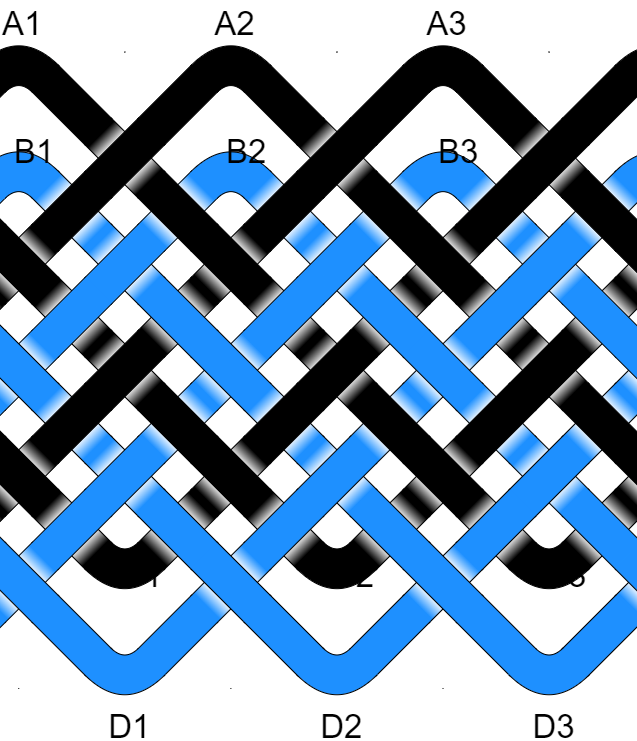
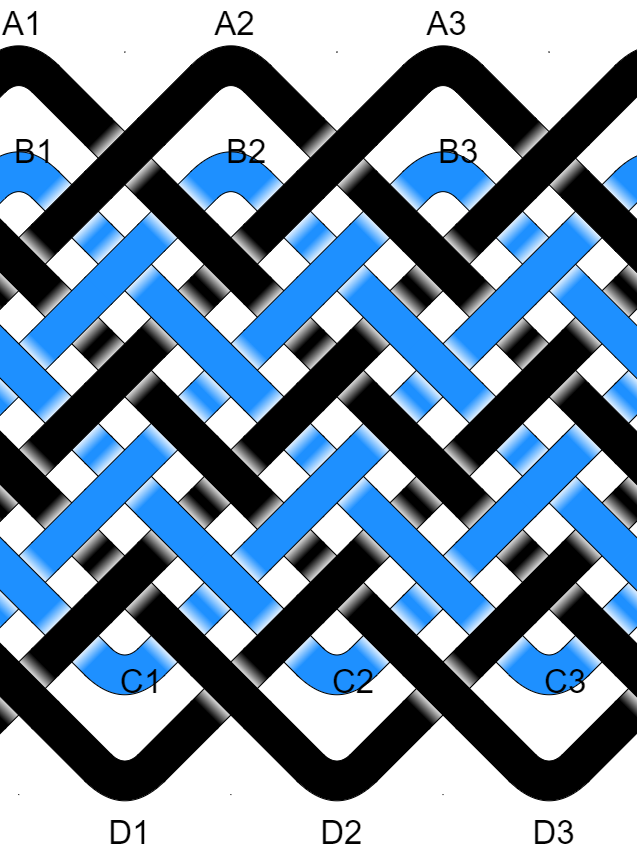
PK Cookbook

diff --git a/pk-cookbook/pk_2-strand_3b-5p_type-ii.md b/pk-cookbook/pk_2-strand_3b-5p_type-ii.md
@@ -1,45 +1,45 @@
-# Pineapple Knot : 2 Strands : 3B 5P : Type II  
+# Pineapple Knot : 2 Strands : 3B 5P : Type II 
 
-![](../assets/images/pk-cookbook/pk_2-strand_3b-5p_type-i.png)
+![](../assets/images/pk-cookbook/pk_2-strand_3b-5p_type-ii.png)
 
 ## Un-Consolidated Instructions
 
 ```
 Strand 1 (Black)
-From A1      . . . . . . . . . . . . .      to D1
-From D1      . . . . . U . . . . . O .      to A2
-From A2      . . . . . U . . . . . O .      to D2
-From D2      . . . O . U . . . U . O .      to A3
-From A3      . . . O . U . . . U . O .      to D3
-From D3      . U . O . U . O . U . O .      to A1
+From A1      . . . . . . . . .      to C3
+From C3      . . . . . U . . .      to A3
+From A3      . . . . . U . . .      to C2
+From C2      . U . . . U . O .      to A2
+From A2      . U . . . U . O .      to C1
+From C1      . U . O . U . O .      to A1
 
 Strand 2 (DodgerBlue)
-From B1      U . O . U . O . U      to C3
-From C3      U . O . U U O . U      to B3
-From B3      U . O . U U O . U      to C2
-From C2      U U O . U U O O U      to B2
-From B2      U U O . U U O O U      to C1
-From C1      U U O O U U O O U      to B1
+From B1      U . O . U . O . .      to D3
+From D3      . . O . U U O . U      to B3
+From B3      U . O . U U O . .      to D2
+From D2      . U O . U U O O U      to B2
+From B2      U U O . U U O O .      to D1
+From D1      . U O O U U O O U      to B1
 ```
 
 ## Consolidated Instructions
 
 ```
 Strand 1 (Black)
-From A1       around 1x     to D1
-From D1      U1 O1      to A2
-From A2      U1 O1      to D2
-From D2      O1U2 O1      to A3
-From A3      O1U2 O1      to D3
-From D3      U1 O1U1 O1U1 O1      to A1
+From A1           to C3
+From C3      U1      to A3
+From A3      U1      to C2
+From C2      U2 O1      to A2
+From A2      U2 O1      to C1
+From C1      U1 O1U1 O1      to A1
 
 Strand 2 (DodgerBlue)
-From B1      U1 O1U1 O1U1      to C3
-From C3      U1 O1U2 O1U1      to B3
-From B3      U1 O1U2 O1U1      to C2
-From C2      U2 O1U2 O2U1      to B2
-From B2      U2 O1U2 O2U1      to C1
-From C1      U2 O2U2 O2U1      to B1
+From B1      U1 O1U1 O1      to D3
+From D3      O1U2 O1U1      to B3
+From B3      U1 O1U2 O1      to D2
+From D2      U1 O1U2 O2U1      to B2
+From B2      U2 O1U2 O2      to D1
+From D1      U1 O2U2 O2U1      to B1
 ```
 
 ## AGM Knot Data
@@ -55,14 +55,10 @@ X*X*X*X*X*X*
 *X*X*X*X*X*X
 X*X*X*X*X*X*
 *X*X*X*X*X*X
-X*X*X*X*X*X*
-*X*X*X*X*X*X
 X*v*X*v*X*v*
 *\*/*\*/*\*/
 .*v*.*v*.*v*
 Coding:
-OUUOOUUOOUUO
-OUUOOUUOOUUO
 OUUOOUUOOUUO
 OUUOOUUOOUUO
 OUUOOUUOOUUO

diff --git a/pk-cookbook/pk_2-strand_3b-5p_type-i.md b/pk-cookbook/pk_2-strand_3b-5p_type-i.md
@@ -1,4 +1,4 @@
-# Pineapple Knot : 2 Strands : 3B 5P : Type I  
+# Pineapple Knot : 2 Strands : 3B 5P : Type I 
 
 ![](../assets/images/pk-cookbook/pk_2-strand_3b-5p_type-i.png)
 
@@ -6,40 +6,40 @@
 
 ```
 Strand 1 (Black)
-From A1      . . . . . . . . .      to C3
-From C3      . . . . . U . . .      to A3
-From A3      . . . . . U . . .      to C2
-From C2      . U . . . U . O .      to A2
-From A2      . U . . . U . O .      to C1
-From C1      . U . O . U . O .      to A1
+From A1      . . . . . . . . . . . . .      to D1
+From D1      . . . . . U . . . . . O .      to A2
+From A2      . . . . . U . . . . . O .      to D2
+From D2      . . . O . U . . . U . O .      to A3
+From A3      . . . O . U . . . U . O .      to D3
+From D3      . U . O . U . O . U . O .      to A1
 
 Strand 2 (DodgerBlue)
-From B1      U . O . U . O . .      to D3
-From D3      . . O . U U O . U      to B3
-From B3      U . O . U U O . .      to D2
-From D2      . U O . U U O O U      to B2
-From B2      U U O . U U O O .      to D1
-From D1      . U O O U U O O U      to B1
+From B1      U . O . U . O . U      to C3
+From C3      U . O . U U O . U      to B3
+From B3      U . O . U U O . U      to C2
+From C2      U U O . U U O O U      to B2
+From B2      U U O . U U O O U      to C1
+From C1      U U O O U U O O U      to B1
 ```
 
 ## Consolidated Instructions
 
 ```
 Strand 1 (Black)
-From A1           to C3
-From C3      U1      to A3
-From A3      U1      to C2
-From C2      U2 O1      to A2
-From A2      U2 O1      to C1
-From C1      U1 O1U1 O1      to A1
+From A1       around 1x     to D1
+From D1      U1 O1      to A2
+From A2      U1 O1      to D2
+From D2      O1U2 O1      to A3
+From A3      O1U2 O1      to D3
+From D3      U1 O1U1 O1U1 O1      to A1
 
 Strand 2 (DodgerBlue)
-From B1      U1 O1U1 O1      to D3
-From D3      O1U2 O1U1      to B3
-From B3      U1 O1U2 O1      to D2
-From D2      U1 O1U2 O2U1      to B2
-From B2      U2 O1U2 O2      to D1
-From D1      U1 O2U2 O2U1      to B1
+From B1      U1 O1U1 O1U1      to C3
+From C3      U1 O1U2 O1U1      to B3
+From B3      U1 O1U2 O1U1      to C2
+From C2      U2 O1U2 O2U1      to B2
+From B2      U2 O1U2 O2U1      to C1
+From C1      U2 O2U2 O2U1      to B1
 ```
 
 ## AGM Knot Data
@@ -55,10 +55,14 @@ X*X*X*X*X*X*
 *X*X*X*X*X*X
 X*X*X*X*X*X*
 *X*X*X*X*X*X
+X*X*X*X*X*X*
+*X*X*X*X*X*X
 X*v*X*v*X*v*
 *\*/*\*/*\*/
 .*v*.*v*.*v*
 Coding:
+OUUOOUUOOUUO
+OUUOOUUOOUUO
 OUUOOUUOOUUO
 OUUOOUUOOUUO
 OUUOOUUOOUUO
